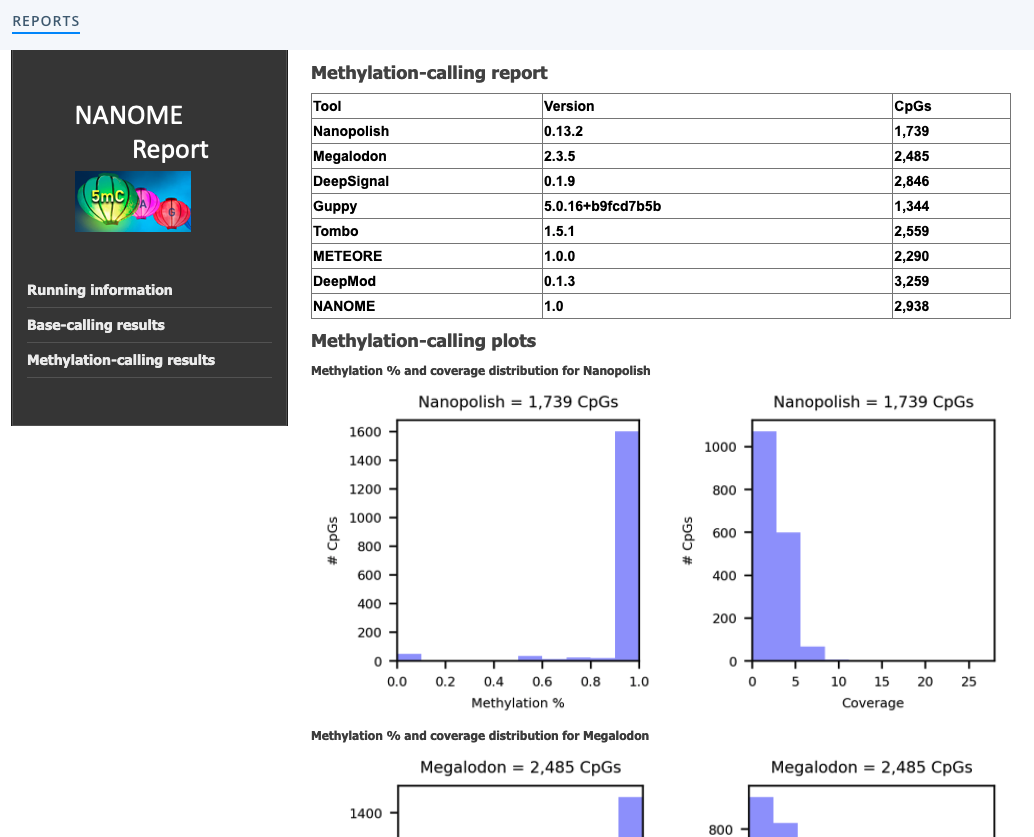
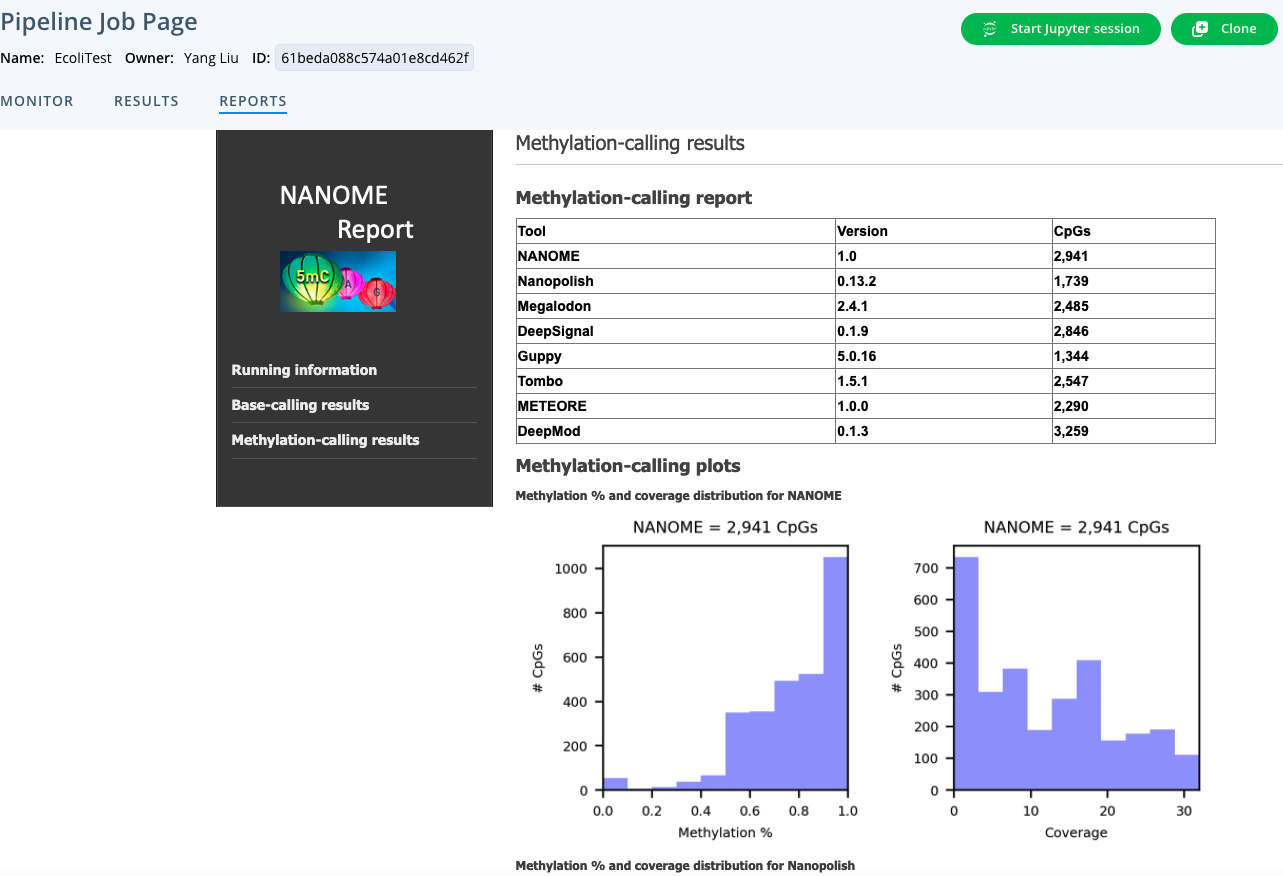
update docs

Changed region(s): [[0.0, 0.0, 0.9594, 1.0], [0.7427, 0.0, 1.0, 0.0621], [0.4333, 0.6834, 0.4952, 0.7145]]

diff --git a/README.md b/README.md
@@ -123,8 +123,8 @@ Please check [NANOME report](https://github.com/TheJacksonLaboratory/nanome/blob
 
 ### Lifebit CloudOS report
 We now support running NANOME on cloud computing platform. [Lifebit](https://lifebit.ai/lifebit-cloudos/) is a web-based cloud computing platform, and below is the running reports:
-* Ecoli test report: https://cloudos.lifebit.ai/public/jobs/61b1084e40695e01e7470eaf
-* Human test report: https://cloudos.lifebit.ai/public/jobs/61b1087540695e01e7470f3d
+* Ecoli test report: https://cloudos.lifebit.ai/public/jobs/61beda088c574a01e8cd462f
+* Human test report: https://cloudos.lifebit.ai/public/jobs/61bebd968c574a01e8cd390d
 * NA12878 chr22 report: https://cloudos.lifebit.ai/public/jobs/61b2176540695e01e7477da9
 * NA12878 chr20 part5 report: https://cloudos.lifebit.ai/public/jobs/61b123f540695e01e747206e
 
